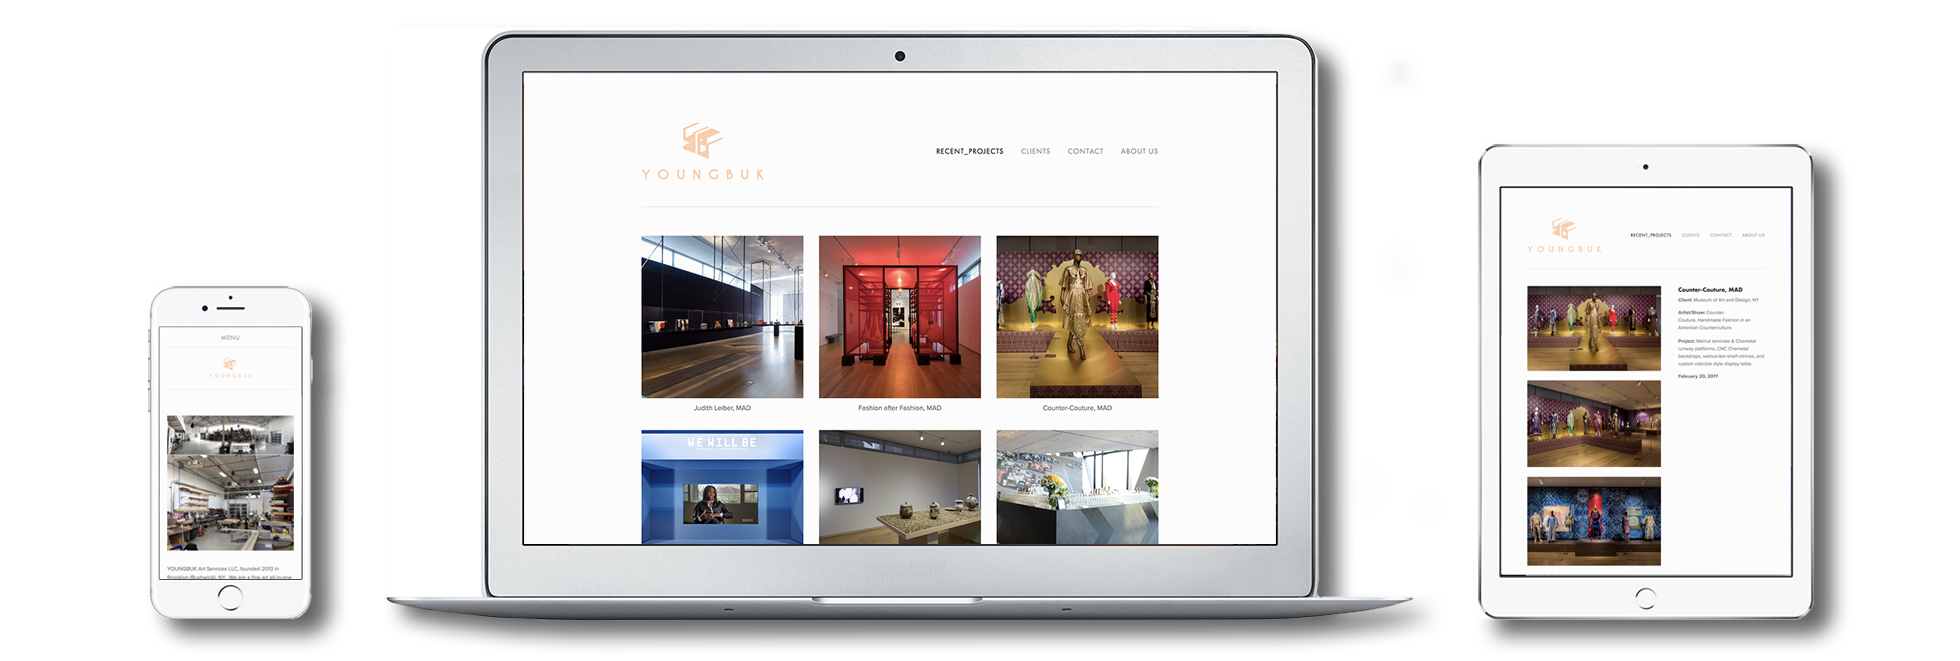
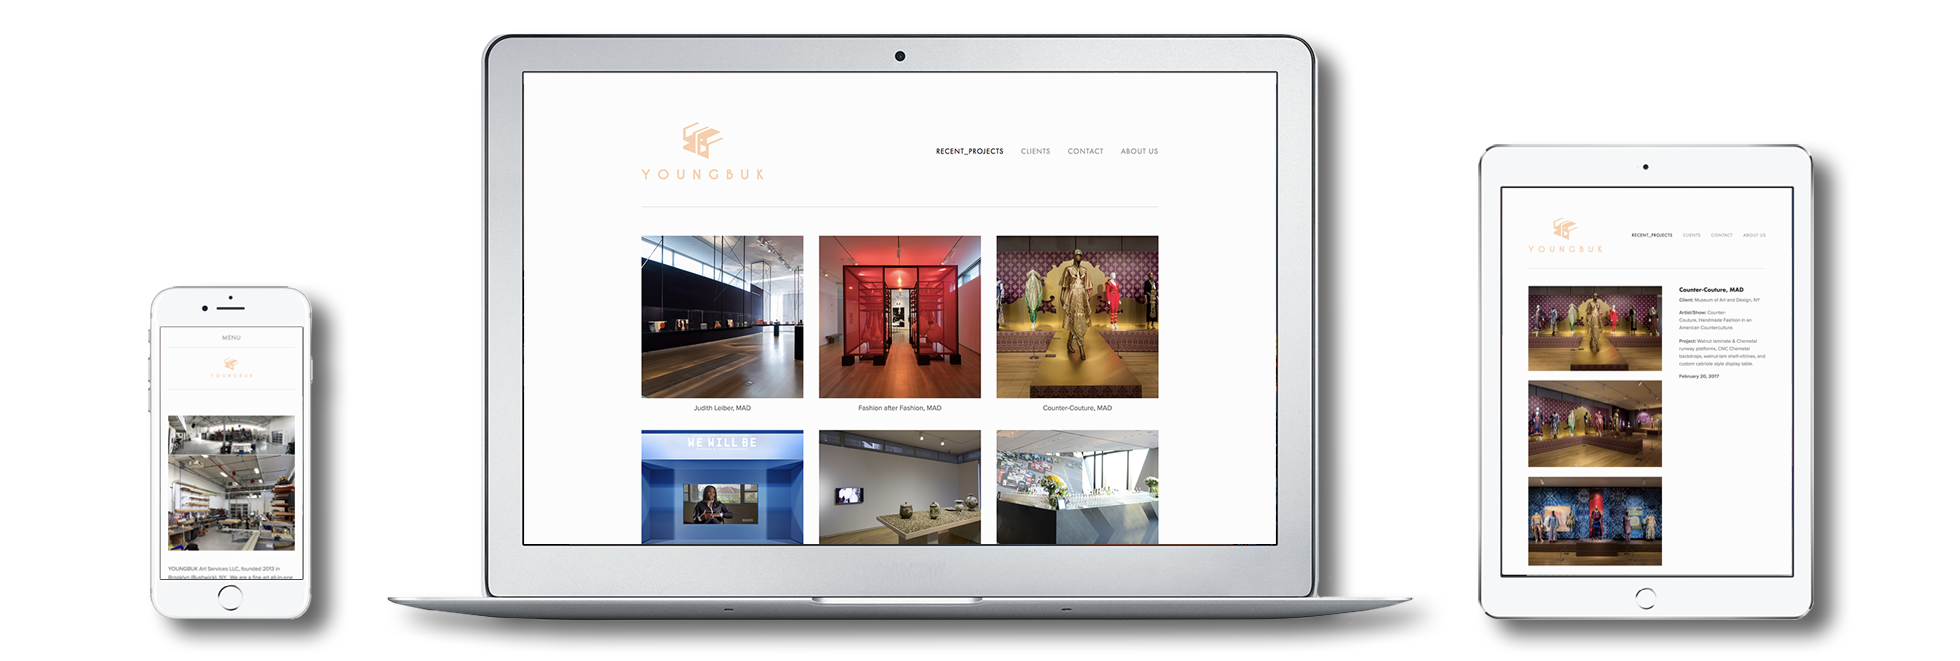
Styles project pages.

diff --git a/jennie.html b/jennie.html
@@ -10,7 +10,7 @@
     <!-- Bootstrap CSS -->
     <link rel="stylesheet" href="https://maxcdn.bootstrapcdn.com/bootstrap/4.0.0-beta/css/bootstrap.min.css" integrity="sha384-/Y6pD6FV/Vv2HJnA6t+vslU6fwYXjCFtcEpHbNJ0lyAFsXTsjBbfaDjzALeQsN6M" crossorigin="anonymous">
     <!-- Google Fonts -->
-    <link href="https://fonts.googleapis.com/css?family=Karla:400,700|Rakkas" rel="stylesheet">
+    <link href="https://fonts.googleapis.com/css?family=Karla:400|Playfair+Display:700|Source+Code+Pro:400" rel="stylesheet">
     <!-- Custom CSS -->
     <link rel="stylesheet" type="text/css" href="assets/styles/style.css" />
 
@@ -45,21 +45,21 @@
     <div class="container">
       <div class="row">
         <div class="col-12">
-          <img src="assets/images/devices_jennielinks.png" class="img-fluid" />
+          <img src="assets/images/devices_jennielinks.png" class="img-fluid" id="device-img" />
         </div>
       </div>
 
       <div class="row" id="project-desc">
         <div class="col-12 col-sm-12 col-lg-12 text-center">
-          <h1>Jennie Links Jewelry E-Commerce Website</h1>
-          <p>Designed + built custom Shopify site for jewelry designer Jennie Jackson.</p>
-          <p><b>E-Comm Integration ‧ HTML/CSS ‧ Javascript ‧ Web Design</b></p>
+          <h1>Jennie Links Jewelry</h1>
+          <h3>Designed + built custom Shopify site for jewelry designer Jennie Jackson.</h3>
+          <h5><b>E-Comm Integration ‧ HTML/CSS ‧ Javascript ‧ Web Design</b></h5>
           <a href="http://www.jennielinks.com"><b>www.jennielinks.com</b></a>
         </div>
       </div>
 
       <div class="row">
-        <div class="col-12 col-sm-12 col-lg-12">
+        <div class="col-12 col-lg-12">
           <img src="assets/images/jennielinks_1.png" class="img-fluid" id="project-img">
         </div>
       </div>

diff --git a/youngbuk.html b/youngbuk.html
@@ -10,7 +10,7 @@
     <!-- Bootstrap CSS -->
     <link rel="stylesheet" href="https://maxcdn.bootstrapcdn.com/bootstrap/4.0.0-beta/css/bootstrap.min.css" integrity="sha384-/Y6pD6FV/Vv2HJnA6t+vslU6fwYXjCFtcEpHbNJ0lyAFsXTsjBbfaDjzALeQsN6M" crossorigin="anonymous">
     <!-- Google Fonts -->
-    <link href="https://fonts.googleapis.com/css?family=Karla:400,700|Rakkas" rel="stylesheet">
+    <link href="https://fonts.googleapis.com/css?family=Karla:400|Playfair+Display:700|Source+Code+Pro:400" rel="stylesheet">
     <!-- Custom CSS -->
     <link rel="stylesheet" type="text/css" href="assets/styles/style.css" />
 
@@ -45,21 +45,21 @@
     <div class="container">
       <div class="row">
         <div class="col-12">
-          <img src="assets/images/devices_yb.png" class="img-fluid" />
+          <img src="assets/images/devices_yb.png" class="img-fluid" id="device-img" />
         </div>
       </div>
 
       <div class="row" id="project-desc">
         <div class="col-12 col-sm-12 col-lg-12 text-center">
-          <h1>Youngbuk Art Services Website</h1>
-          <p>Designed + built custom Squarespace site for Brooklyn-based art fabrication studio.</p>
-          <p><b>HTML/CSS ‧ Javascript ‧ Web Design</b></p>
+          <h1>Youngbuk Art Services</h1>
+          <h3>Designed + built custom Squarespace site for Brooklyn-based art fabrication studio.</h3>
+          <h5><b>HTML/CSS ‧ Javascript ‧ Web Design</b></h5>
           <a href="http://www.youngbuk.com/"><b>www.youngbuk.com</b></a>
         </div>
       </div>
 
       <div class="row">
-        <div class="col-12 col-sm-12 col-lg-12">
+        <div class="col-12 col-lg-12">
           <img src="assets/images/yb1.png" class="img-fluid" id="project-img">
         </div>
       </div>

diff --git a/assets/styles/style.css b/assets/styles/style.css
@@ -1,10 +1,25 @@
 body {
   height: 100%;
   font-family: "Karla", sans-serif;
-  background-color: #ffffff; }
+  background-color: #f2f2f2;
+  padding-bottom: 4rem; }
+  body h1 {
+    font-family: "Playfair Display", serif;
+    padding-bottom: 1rem; }
+  body h3 {
+    font-family: "Source Code Pro", sans-serif;
+    text-transform: uppercase;
+    line-height: 2;
+    font-size: 1rem;
+    padding-bottom: 0.5rem; }
   body h4 {
     font-size: 1.2rem;
     margin: 0; }
+  body h5 {
+    color: pink;
+    font-size: 1rem;
+    text-transform: uppercase;
+    letter-spacing: 1px; }
 
 .container {
   max-width: 1070px;
@@ -120,15 +135,18 @@ body {
   transform: translate(-50%, -50%);
   -ms-transform: translate(-50%, -50%); }
 
-#hero-img {
-  padding-top: 2rem; }
+#device-img {
+  padding-top: 6rem;
+  padding-bottom: 3rem; }
 
-@media (max-width: 576px) {
-  #project-desc {
-    text-align: center; } }
+#project-desc {
+  padding-bottom: 2rem; }
+  @media (max-width: 576px) {
+    #project-desc {
+      text-align: center; } }
 
 #project-img {
-  border: solid 1px #858585; }
+  padding-bottom: 1rem; }
 
 h5 {
   font-size: 5rem; }

diff --git a/index.html b/index.html
@@ -10,7 +10,7 @@
     <!-- Bootstrap CSS -->
     <link rel="stylesheet" href="https://maxcdn.bootstrapcdn.com/bootstrap/4.0.0-beta/css/bootstrap.min.css" integrity="sha384-/Y6pD6FV/Vv2HJnA6t+vslU6fwYXjCFtcEpHbNJ0lyAFsXTsjBbfaDjzALeQsN6M" crossorigin="anonymous">
     <!-- Google Fonts -->
-    <link href="https://fonts.googleapis.com/css?family=Karla:400,700|Rakkas" rel="stylesheet">
+    <link href="https://fonts.googleapis.com/css?family=Karla:400|Playfair+Display:700|Source+Code+Pro:400" rel="stylesheet">
     <!-- Custom CSS -->
     <link rel="stylesheet" type="text/css" href="assets/styles/style.css" />
 
@@ -66,7 +66,7 @@
         </div>
 
         <div class="card mb-3 col-4">
-          <img class="card-img-top" src="assets/images/THUMB_jennielinks.png" alt="Card image cap">
+          <a href="jennie.html"><img class="card-img-top" src="assets/images/THUMB_jennielinks.png" alt="Card image cap"></a>
           <div class="card-body">
             <h4 class="card-title">Jennie Links Jewelry</h4>
             <p class="card-text">Web Dev + E-Comm</p>

diff --git a/assets/styles/style.scss b/assets/styles/style.scss
@@ -2,11 +2,32 @@
 body{
   height: 100%;
   font-family: "Karla", sans-serif;
-  background-color: #ffffff;
+  background-color: #f2f2f2;
+  padding-bottom: 4rem;
+
+  h1{
+    font-family: "Playfair Display", serif;
+    padding-bottom: 1rem;
+  }
+
+  h3{
+    font-family: "Source Code Pro", sans-serif;
+    text-transform: uppercase;
+    line-height: 2;
+    font-size: 1rem;
+    padding-bottom: 0.5rem;
+  }
 
   h4{
     font-size: 1.2rem;
     margin: 0;
+  }
+
+  h5{
+    color: pink;
+    font-size: 1rem;
+    text-transform: uppercase;
+    letter-spacing: 1px;
   }
 }
 
@@ -174,18 +195,21 @@ padding: 0px 16px 12px 16px;
 }
 
 //Project Pages
-#hero-img{
-  padding-top: 2rem;
+#device-img{
+  padding-top: 6rem;
+  padding-bottom: 3rem;
 }
 
 #project-desc{
+  padding-bottom: 2rem;
+
   @media (max-width: 576px){
     text-align: center;
   }
 }
 
 #project-img{
-  border: solid 1px rgb(133, 133, 133);
+  padding-bottom: 1rem;
 }
 
 h5{
